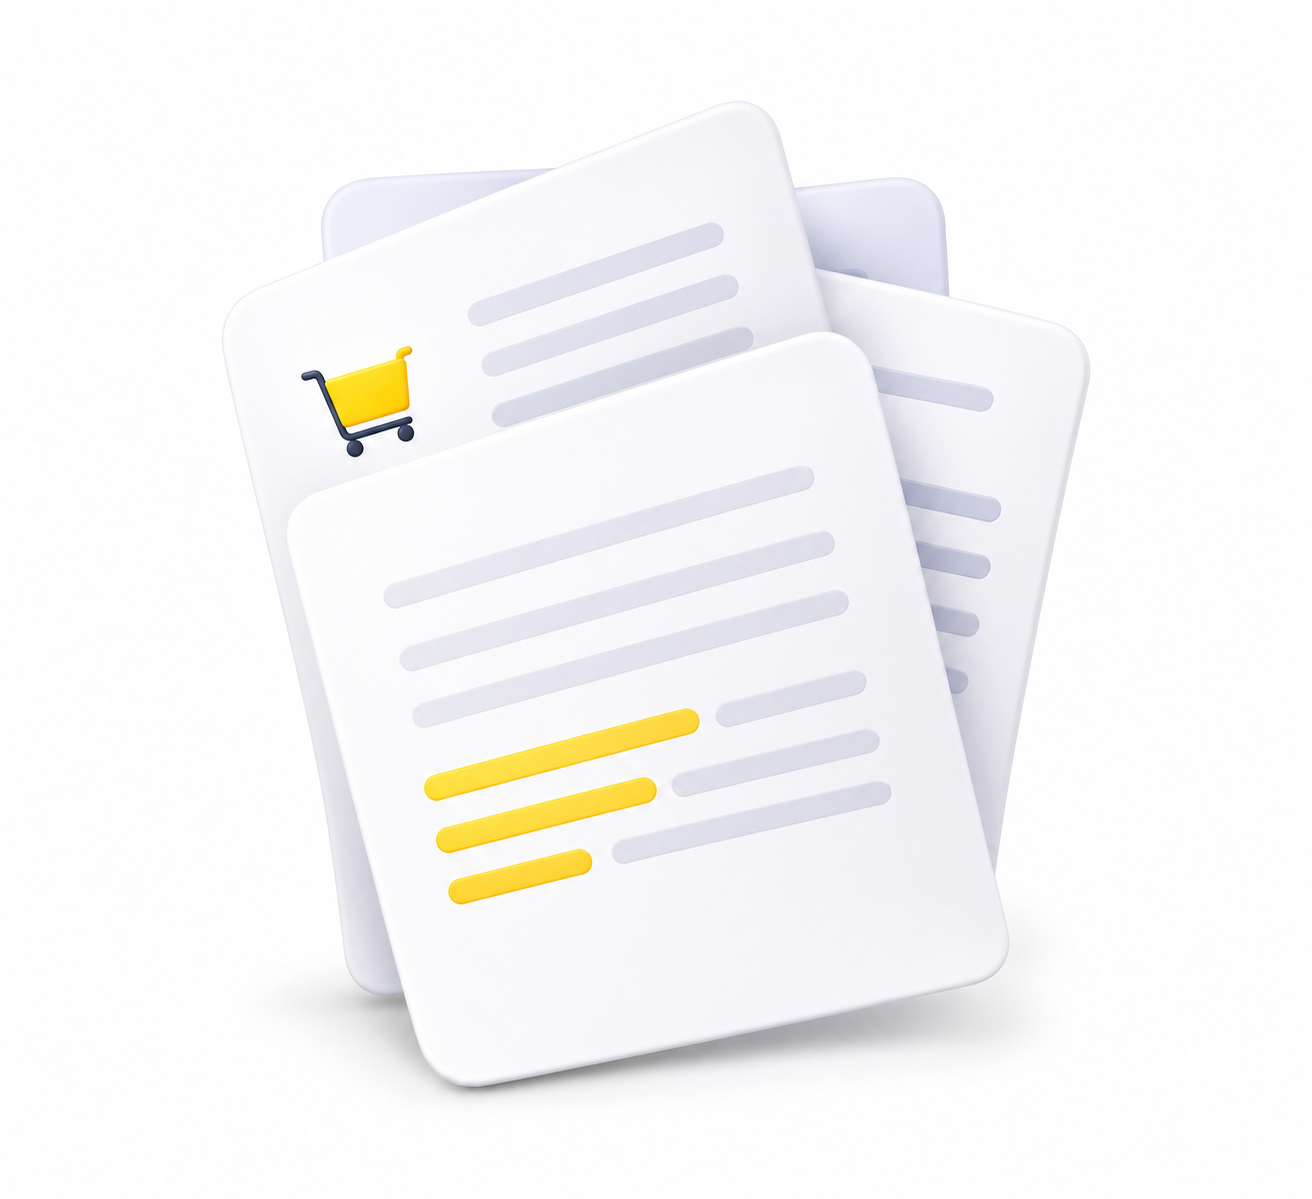
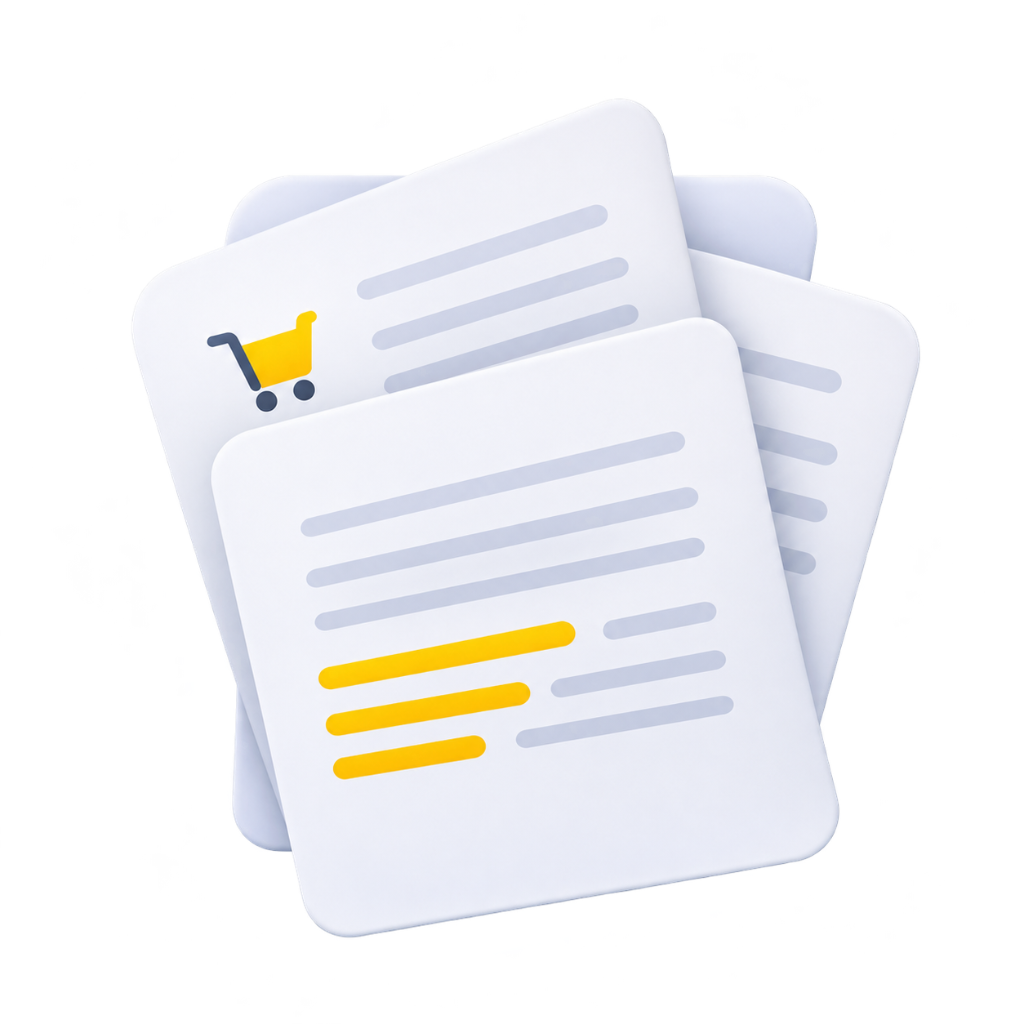
feat: replace sales orders card illustration with 3D stacked documents graphic

diff --git a/src/styles.css b/src/styles.css
@@ -6980,10 +6980,31 @@ app-geometric-grid-background {
   padding: 20px 24px !important;
 }
 
-/* 3. Sales Orders Collapsed: room for all 3 capabilities & order checklist illustration */
+/* 3. Sales Orders Collapsed: top-aligned content & 3D stacked documents illustration matching design */
 .cap-card.cap-sales:not(.is-expanded) {
-  grid-template-columns: 51% 49% !important;
-  padding: 22px 26px !important;
+  grid-template-columns: 52% 48% !important;
+  align-items: start !important;
+  padding: 28px 28px 24px 28px !important;
+}
+
+.cap-card.cap-sales:not(.is-expanded):not(.is-compact) .sales-col-left {
+  justify-content: flex-start !important;
+  padding-top: 4px !important;
+}
+
+.cap-card.cap-sales:not(.is-expanded):not(.is-compact) .sales-col-right {
+  position: relative !important;
+  display: flex !important;
+  flex-direction: column !important;
+  align-items: center !important;
+  justify-content: flex-start !important;
+  padding-top: 0px !important;
+  height: auto !important;
+}
+
+.cap-card.cap-sales:not(.is-expanded):not(.is-compact) .sales-arrow-btn {
+  top: 0px !important;
+  right: 0px !important;
 }
 
 /* 4. Stock Movements Collapsed: consistent internal padding, vertically centered pallet truck */
@@ -7236,7 +7257,7 @@ app-geometric-grid-background {
   transform: translateY(-4px) scale(1.02);
 }
 
-/* 3. Sales Orders Preview Embed (Order Checklist with Boxes Illustration) */
+/* 3. Sales Orders Preview Embed (3D Stacked Documents Illustration) */
 .cap-card.cap-sales .sales-preview-embed {
   position: relative;
   display: flex;
@@ -7246,10 +7267,20 @@ app-geometric-grid-background {
   height: 100%;
 }
 
+.cap-card.cap-sales:not(.is-expanded):not(.is-compact) .sales-preview-embed {
+  display: flex !important;
+  align-items: center !important;
+  justify-content: center !important;
+  margin-top: 8px !important;
+  padding-right: 18px !important;
+  width: 100% !important;
+  height: auto !important;
+}
+
 .cap-card.cap-sales .sales-preview-embed .sales-asset {
   position: static !important;
-  max-width: 165px;
-  max-height: 170px;
+  max-width: 185px;
+  max-height: 185px;
   width: auto;
   height: auto;
   object-fit: contain;

diff --git a/src/app/components/warehouse-capabilities/warehouse-capabilities.component.ts b/src/app/components/warehouse-capabilities/warehouse-capabilities.component.ts
@@ -563,8 +563,8 @@ type CapabilityCardId = 'inventory' | 'purchasing' | 'sales' | 'movements' | 're
               <div class="sales-preview-embed">
                 <img
                   class="cap-asset sales-asset"
-                  src="/assets/capability-orders.png"
-                  alt="Sales orders checklist with boxes"
+                  src="/assets/capability-sales-documents.png"
+                  alt="Sales orders documents illustration"
                 />
               </div>
             }
